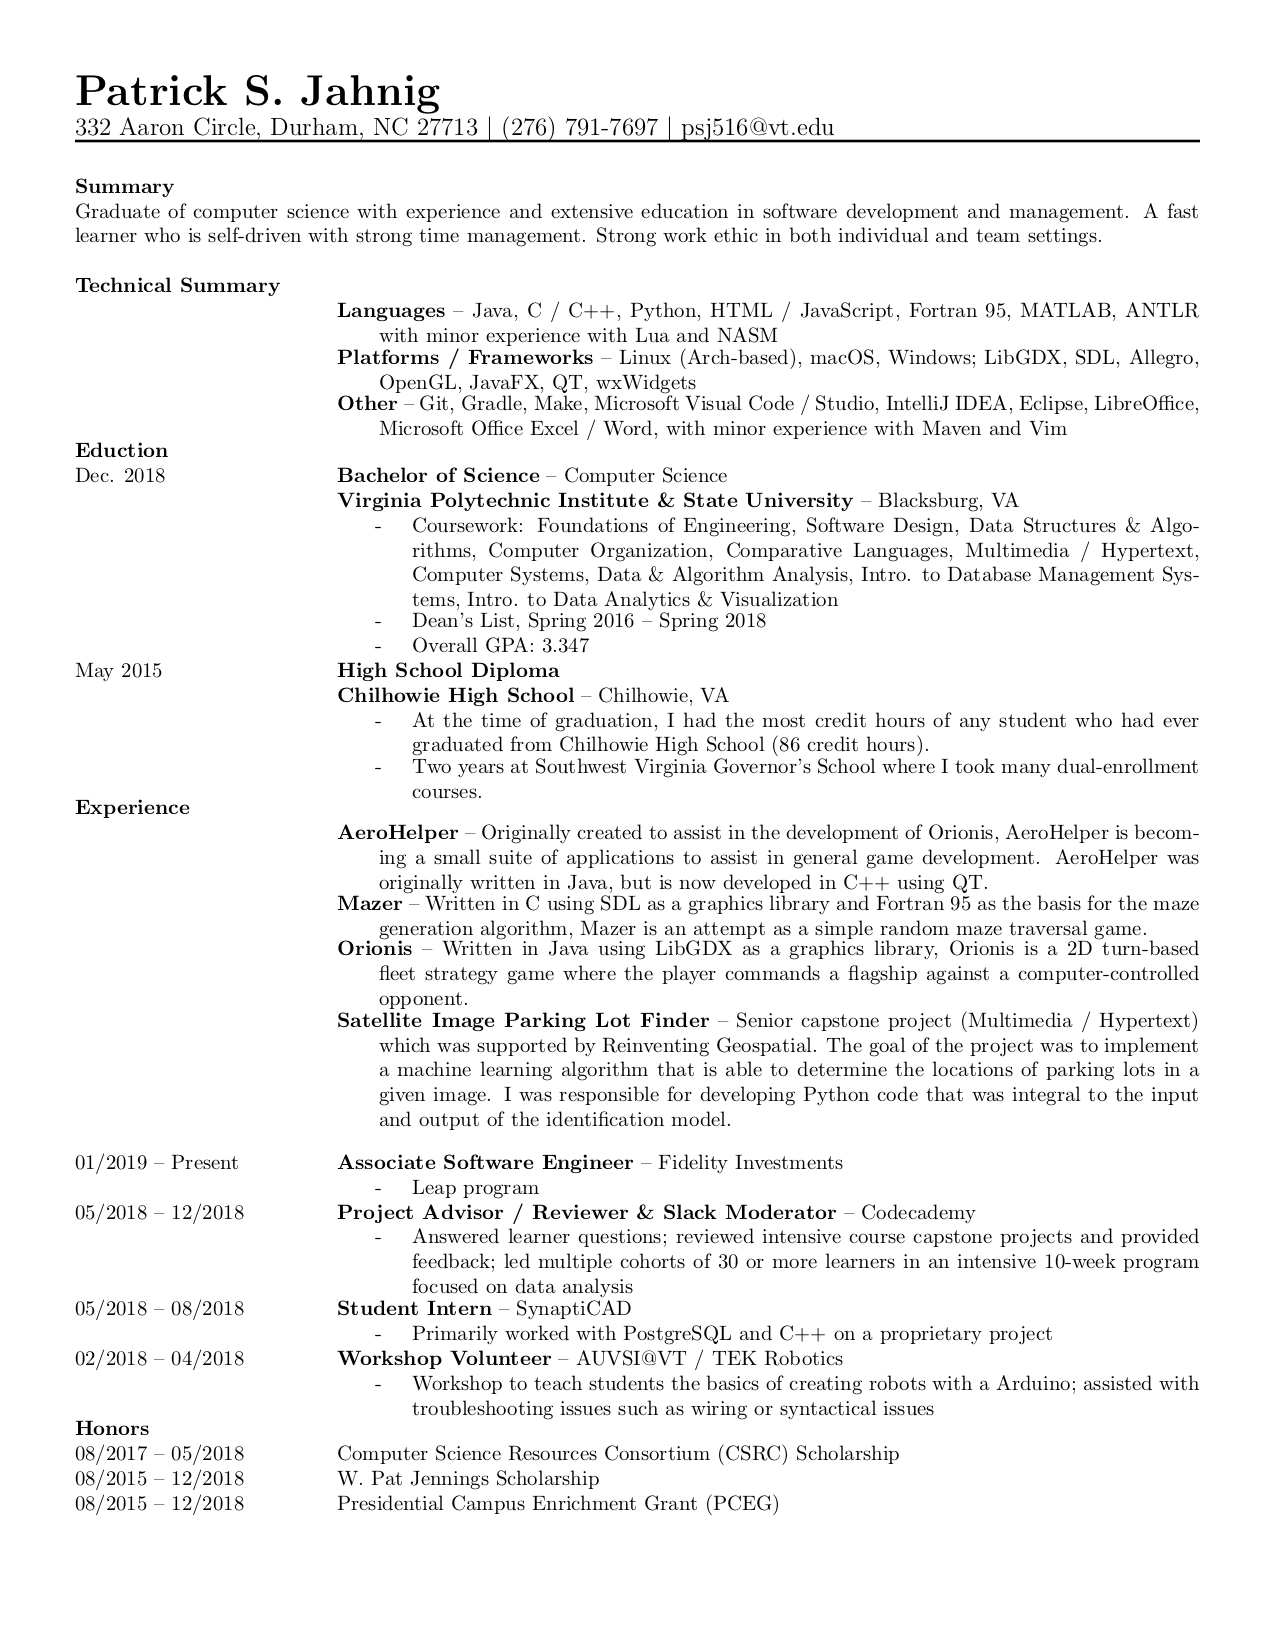
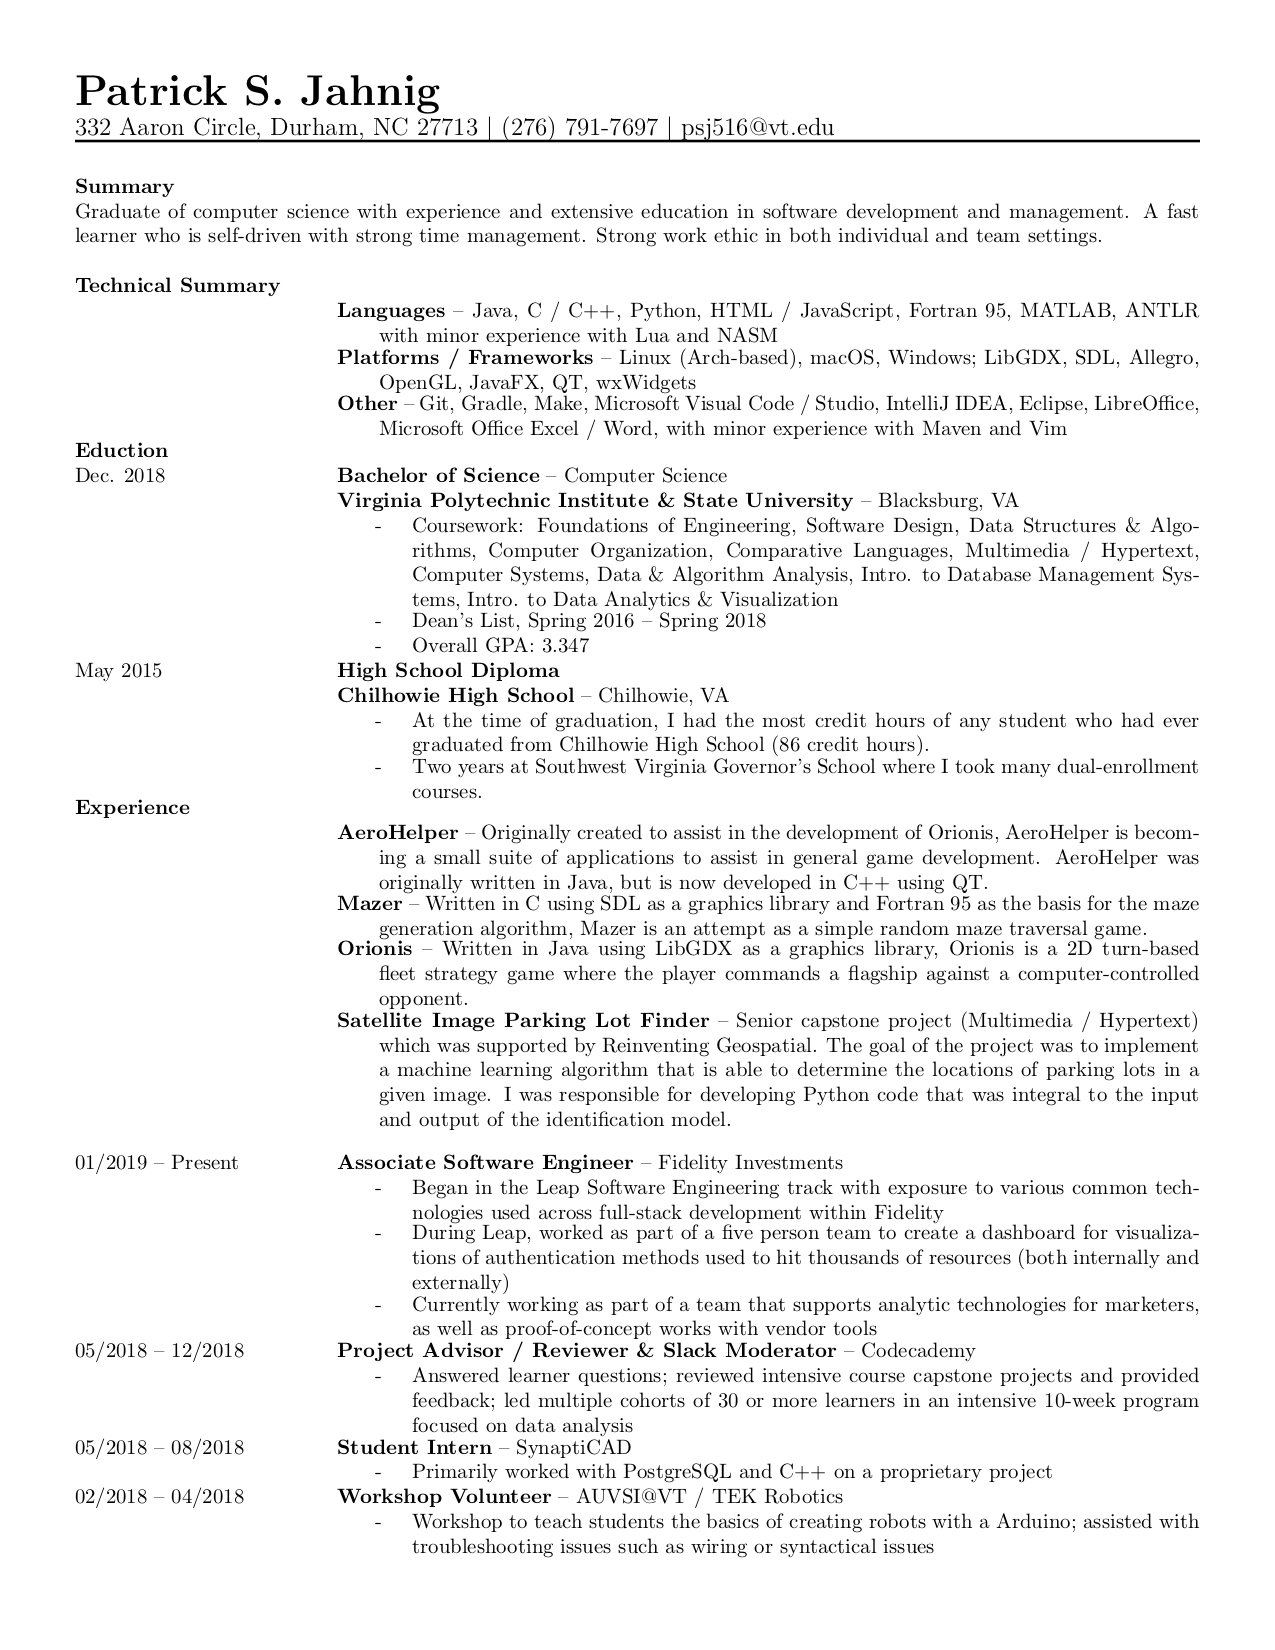
Updated resume

diff --git a/index.html b/index.html
@@ -32,7 +32,7 @@
         </p>
 
         <p>
-            To the right is the current copy of my resume, which was last updated January 2019. To view the document in a 
+            To the right is the current copy of my resume, which was last updated November 2019. To view the document in a 
                 larger size or to download it, please click the image.
         </p>
 
